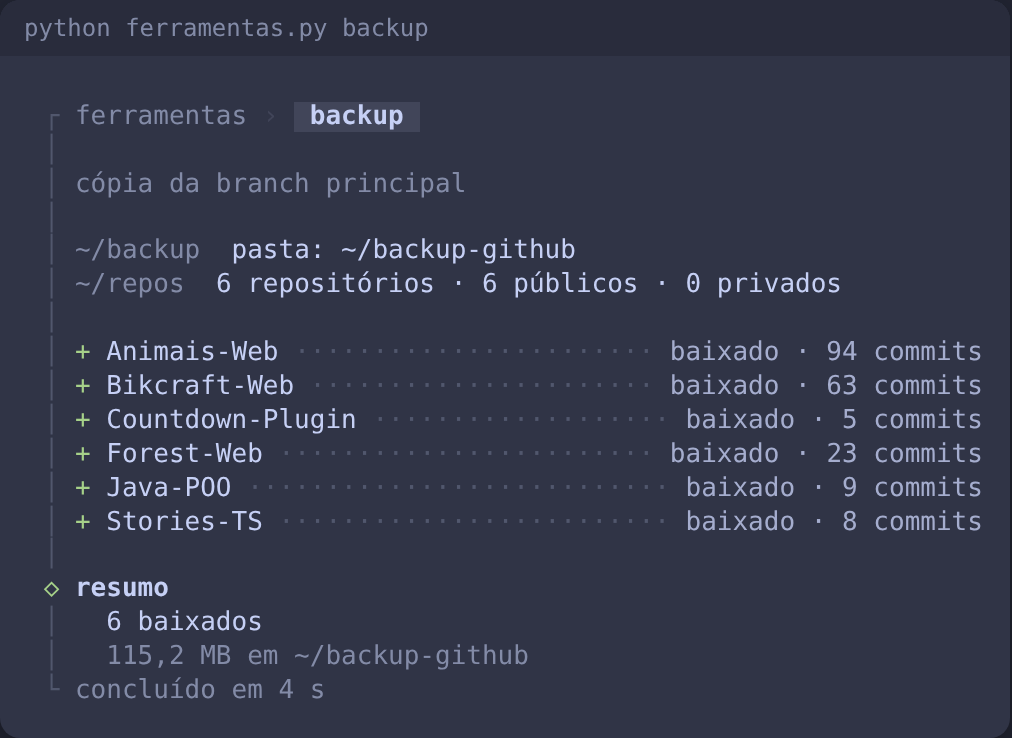
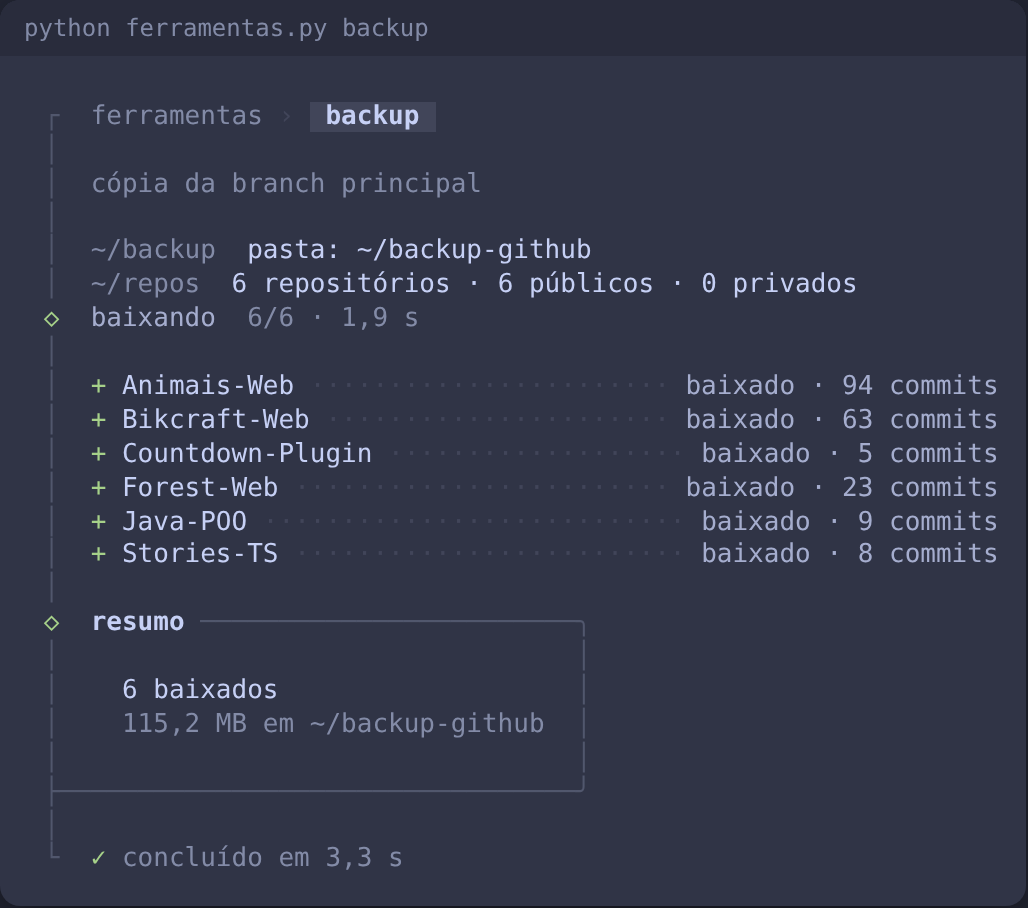
docs: capturas com o visual refinado e nota sobre links clicáveis

diff --git a/README.md b/README.md
@@ -104,7 +104,7 @@ Cada ferramenta lista as próprias opções com `--help`, por exemplo `python fe
 
 ## Funciona em qualquer terminal
 
-Windows Terminal, cmd e PowerShell, Git Bash, Terminal do macOS, iTerm, VS Code e terminais do Linux. Ele descobre sozinho quantas cores o terminal aguenta (milhões, 256 ou 16) e quais símbolos a fonte tem. Em tela estreita, o logo encolhe para uma linha e nada passa da borda: testado de 40 a 100 colunas, e no Python 3.8 e no 3.13.
+Windows Terminal, cmd e PowerShell, Git Bash, Terminal do macOS, iTerm, VS Code e terminais do Linux. Ele descobre sozinho quantas cores o terminal aguenta (milhões, 256 ou 16) e quais símbolos a fonte tem. Nos terminais que deixam (Windows Terminal, VS Code, iTerm, WezTerm, kitty…), os caminhos dos relatórios e os endereços dos sites são clicáveis. Em tela estreita, o logo encolhe para uma linha e nada passa da borda: testado de 40 a 100 colunas, e no Python 3.8 e no 3.13.
 
 ## Segurança
 
